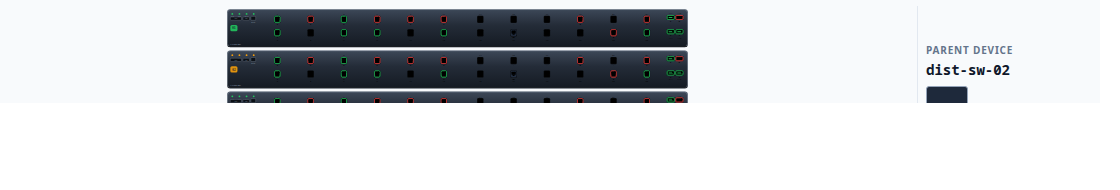
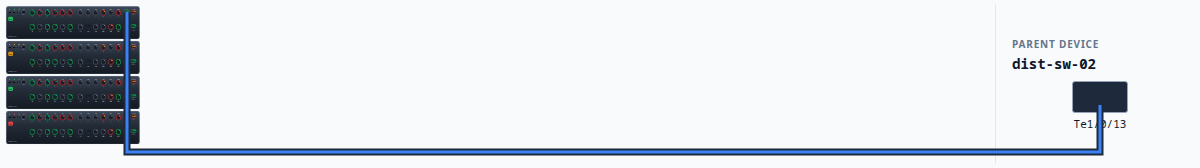
Fit the faceplate chassis inside the panel and draw the parent cable.
Both port rows and the parent port stay inside the existing panel height, stacks of two to four shrink to fit, and the blue line runs from the uplink under the chassis to the parent port.

diff --git a/ui/src/app/device-detail/components/DeviceDetailView.tsx b/ui/src/app/device-detail/components/DeviceDetailView.tsx
@@ -454,11 +454,8 @@ export default function DeviceDetailView() {
               </div>
             ) : null}
             <div ref={greyRef} className="relative flex items-stretch gap-0 overflow-hidden rounded-md bg-gradient-to-b from-secondary to-background p-1" style={{ height: FACEPLATE_HEIGHT }}>
-              <div ref={localPlateRef} className="min-w-0 flex-1 overflow-x-auto">
-                <div
-                  className={device.faceplate.form_factor === 'ceiling-ap' ? 'w-full' : 'flex h-full min-w-full items-center'}
-                  style={device.faceplate.form_factor === 'ceiling-ap' ? undefined : { height: FACEPLATE_HEIGHT }}
-                >
+              <div ref={localPlateRef} className="flex min-w-0 flex-1 items-start overflow-x-auto">
+                <div className={device.faceplate.form_factor === 'ceiling-ap' ? 'w-full' : 'min-w-full'}>
                   <Faceplate
                     device={device.faceplate}
                     selectedPortId={selected?.id ?? null}
@@ -470,11 +467,11 @@ export default function DeviceDetailView() {
                 </div>
               </div>
               <div className="mx-2 w-px shrink-0 bg-border" aria-hidden="true" />
-              <aside data-testid="parent-device" className="flex w-44 shrink-0 flex-col justify-center px-2">
+              <aside data-testid="parent-device" className="flex w-44 shrink-0 flex-col justify-center overflow-visible px-2 py-1">
                 <p className="text-[10px] font-semibold uppercase tracking-wide text-muted-foreground">Parent Device</p>
                 {parentLink ? (
                   <>
-                    <Link href={devicePath(parentLink.id, parentLink.formFactor || 'generic')} className="mt-1 truncate font-mono-data text-sm font-semibold text-foreground hover:text-primary hover:underline" title={parentLink.hostname}>
+                    <Link href={devicePath(parentLink.id, parentLink.formFactor || 'generic')} className="mt-1 break-all font-mono-data text-sm font-semibold leading-tight text-foreground hover:text-primary hover:underline" title={parentLink.hostname}>
                       {parentLink.hostname}
                     </Link>
                     <div ref={parentPortRef} data-relation-id={parentLink.id} className="mt-2">
@@ -485,11 +482,6 @@ export default function DeviceDetailView() {
                   <p className="mt-1 text-sm text-muted-foreground">No parent detected</p>
                 )}
               </aside>
-              {parentLink && !cable ? (
-                <svg className="pointer-events-none absolute inset-0" viewBox="0 0 100 100" preserveAspectRatio="none" aria-hidden="true">
-                  <path d="M 58 72 V 96 H 86 V 58" fill="none" stroke="#3b82f6" strokeWidth="1.6" vectorEffect="non-scaling-stroke" />
-                </svg>
-              ) : null}
               {cable ? <UplinkCable localRef={localPlateRef} greyRef={greyRef} remote={cable.plate} localPortName={cable.localPort} remotePortName={cable.remotePort} /> : null}
             </div>
             {device.faceplate.form_factor === 'ceiling-ap' ? <ApRadioBoards device={device} /> : null}
@@ -988,13 +980,15 @@ function cablePath(points: { x: number; y: number }[]): string {
 }
 
 function outsideCable(port: DOMRect, chassis: DOMRect, remotePort: DOMRect | null, remoteBox: DOMRect, grey: DOMRect): string {
-  const x = port.left + port.width / 2;
-  const y = port.top + port.height / 2;
-  const hug = 2;
-  const laneY = Math.min(grey.bottom - hug, chassis.bottom + hug);
-  const endX = remotePort ? remotePort.left + remotePort.width / 2 : remoteBox.left + remoteBox.width / 2;
-  const rawEndY = remotePort ? remotePort.top + remotePort.height / 2 : remoteBox.top + remoteBox.height / 2;
-  const endY = Math.max(grey.top + hug, Math.min(grey.bottom - hug, rawEndY));
+  const localX = (rect: DOMRect) => rect.left - grey.left + rect.width / 2;
+  const localY = (rect: DOMRect) => rect.top - grey.top + rect.height / 2;
+  const x = localX(port);
+  const y = localY(port);
+  const hug = 6;
+  const laneY = Math.min(grey.height - hug, chassis.bottom - grey.top + hug);
+  const endX = remotePort ? localX(remotePort) : remoteBox.left - grey.left + remoteBox.width / 2;
+  const rawEndY = remotePort ? localY(remotePort) : remoteBox.top - grey.top + remoteBox.height / 2;
+  const endY = Math.max(hug, Math.min(grey.height - hug, rawEndY));
   return cablePath([
     { x, y },
     { x, y: laneY },
@@ -1025,15 +1019,22 @@ function UplinkCable({
     const measure = () => {
       const localPort = findPort(local, localPortName);
       const remotePort = findPort(remote, remotePortName);
-      if (!localPort) {
+      const greyBox = grey.getBoundingClientRect();
+      if (!localPort || greyBox.width < 2 || greyBox.height < 2) {
+        setPath('');
+        return;
+      }
+      const portBox = localPort.getBoundingClientRect();
+      if (portBox.width < 1 && portBox.height < 1) {
         setPath('');
         return;
       }
       const localBox = local.getBoundingClientRect();
-      const metal = local.querySelector('[data-chassis]');
+      const metals = local.querySelectorAll('[data-chassis]');
+      const metal = metals.length ? metals[metals.length - 1] : null;
       const remoteBox = remote.getBoundingClientRect();
-      setSize({ w: window.innerWidth, h: window.innerHeight });
-      setPath(outsideCable(localPort.getBoundingClientRect(), metal ? metal.getBoundingClientRect() : localBox, remotePort ? remotePort.getBoundingClientRect() : null, remoteBox, grey.getBoundingClientRect()));
+      setSize({ w: greyBox.width, h: greyBox.height });
+      setPath(outsideCable(portBox, metal ? metal.getBoundingClientRect() : localBox, remotePort ? remotePort.getBoundingClientRect() : null, remoteBox, greyBox));
     };
     measure();
     if (typeof ResizeObserver === 'undefined') return undefined;
@@ -1049,27 +1050,28 @@ function UplinkCable({
       window.removeEventListener('resize', measure);
     };
   }, [localRef, greyRef, remote, localPortName, remotePortName]);
-  if (!path || size.w <= 0 || typeof document === 'undefined') return null;
-  return createPortal(
-    <svg width={size.w} height={size.h} viewBox={`0 0 ${size.w} ${size.h}`} style={{ position: 'fixed', left: 0, top: 0, zIndex: 80, pointerEvents: 'none' }} aria-hidden="true">
+  if (!path || size.w <= 0) return null;
+  return (
+    <svg data-testid="uplink-cable" width={size.w} height={size.h} viewBox={`0 0 ${size.w} ${size.h}`} style={{ position: 'absolute', left: 0, top: 0, zIndex: 5, pointerEvents: 'none' }} aria-hidden="true">
       <path d={path} fill="none" stroke="#1e293b" strokeWidth={7} strokeLinejoin="miter" strokeLinecap="butt" />
       <path d={path} fill="none" stroke="#3b82f6" strokeWidth={3} strokeLinejoin="miter" strokeLinecap="butt" />
-    </svg>,
-    document.body,
+    </svg>
   );
 }
 
 function ParentPortPicture({ name }: { name: string }) {
   const fiber = /te|hu|fo|twe|sfp|uplink/i.test(name);
   return (
-    <div data-port-name={name} data-testid="parent-port" className="flex flex-col items-center gap-1">
+    <div data-port-name={name} data-testid="parent-port" className="flex w-full flex-col items-center gap-1">
       <div
         className={fiber
-          ? 'h-6 w-10 rounded-[3px] border border-slate-400 bg-slate-800 shadow-sm'
-          : 'h-8 w-7 rounded-[3px] border-2 border-slate-500 bg-slate-900 shadow-sm'}
+          ? 'h-8 w-14 rounded-[3px] border border-slate-400 bg-slate-800 shadow-sm'
+          : 'h-10 w-8 rounded-[3px] border-2 border-slate-400 bg-slate-900 shadow-sm'}
         aria-hidden="true"
-      />
-      <span className="max-w-[9rem] truncate font-mono-data text-[10px] text-muted-foreground" title={name}>{name}</span>
+      >
+        <div className={fiber ? 'mx-auto mt-1.5 h-3 w-8 rounded-sm bg-slate-500' : 'mx-auto mt-1 h-4 w-5 rounded-sm bg-slate-600'} />
+      </div>
+      <span className="max-w-full text-center font-mono-data text-[11px] leading-tight text-foreground" title={name}>{name}</span>
     </div>
   );
 }

diff --git a/ui/src/components/faceplate/Faceplate.shots.test.tsx b/ui/src/components/faceplate/Faceplate.shots.test.tsx
@@ -34,31 +34,76 @@ function stack(count: number): FaceplateDevice {
 
 function frame(device: FaceplateDevice, parent: string | null) {
   return (
-    <div style={{ position: 'relative', display: 'flex', alignItems: 'stretch', width: 1100, height: 168, background: '#f8fafc', boxSizing: 'border-box', padding: 6 }}>
-      <div style={{ flex: 1, minWidth: 0, height: '100%' }}>
+    <div
+      data-faceplate-panel=""
+      data-uplink={parent ? 'Te1/1/1' : ''}
+      data-parent-port={parent ? 'Te1/0/13' : ''}
+      style={{ position: 'relative', display: 'flex', alignItems: 'stretch', width: 1200, height: 168, background: '#f8fafc', boxSizing: 'border-box', padding: 4, overflow: 'hidden' }}
+    >
+      <div style={{ flex: 1, minWidth: 0, display: 'flex', alignItems: 'flex-start' }}>
         <Faceplate device={device} caption={false} health={parent ? 'healthy' : 'unknown'} chassisLabel={device.form_factor === 'access-switch-48' ? 'C9300-48P' : 'C9300-24P'} />
       </div>
       <div style={{ width: 1, background: '#e2e8f0', margin: '0 8px' }} />
-      <aside style={{ width: 168, display: 'flex', flexDirection: 'column', justifyContent: 'center' }}>
+      <aside style={{ width: 176, display: 'flex', flexDirection: 'column', justifyContent: 'center', padding: '4px 8px' }}>
         <div style={{ font: '600 10px/1.2 ui-sans-serif, system-ui', letterSpacing: '0.08em', color: '#64748b', textTransform: 'uppercase' }}>Parent Device</div>
         {parent ? (
           <>
             <div style={{ marginTop: 6, font: '600 14px/1.2 ui-monospace, monospace', color: '#0f172a' }}>{parent}</div>
-            <div style={{ marginTop: 8, width: 40, height: 22, border: '1px solid #94a3b8', borderRadius: 3, background: '#1e293b' }} />
-            <div style={{ marginTop: 4, font: '500 10px/1 ui-monospace, monospace', color: '#64748b' }}>Te1/0/13</div>
+            <div data-port-name="Te1/0/13" style={{ marginTop: 8, display: 'flex', flexDirection: 'column', alignItems: 'center' }}>
+              <div style={{ width: 56, height: 32, border: '1px solid #94a3b8', borderRadius: 3, background: '#1e293b', boxSizing: 'border-box' }} />
+              <div style={{ marginTop: 4, font: '500 11px/1.2 ui-monospace, monospace', color: '#0f172a' }}>Te1/0/13</div>
+            </div>
           </>
         ) : (
           <div style={{ marginTop: 6, font: '500 14px/1.3 ui-sans-serif, system-ui', color: '#64748b' }}>No parent detected</div>
         )}
       </aside>
-      {parent ? (
-        <svg style={{ position: 'absolute', inset: 0, pointerEvents: 'none' }} viewBox="0 0 100 100" preserveAspectRatio="none" aria-hidden="true">
-          <path d="M 62 74 V 96 H 88 V 62" fill="none" stroke="#3b82f6" strokeWidth="1.6" />
-        </svg>
-      ) : null}
     </div>
   );
 }
+
+const SHOT_CSS = `:root{--navy:#0b1220;--metal-1:#2a3140;--metal-2:#1b212d;--metal-3:#12161f;--metal-hi:#4a5468;--down:#d5deea;--font-mono:ui-monospace,monospace;--success:#17a672;--warning:#e8a317;--destructive:#d93a46;--cyan:#36cfff}`;
+
+const CABLE_SCRIPT = `<script>
+(function () {
+  var panel = document.querySelector('[data-faceplate-panel]');
+  if (!panel) return;
+  var uplink = panel.getAttribute('data-uplink');
+  var parentPort = panel.getAttribute('data-parent-port');
+  if (!uplink || !parentPort) return;
+  var local = panel.querySelector('[data-port-name="' + uplink + '"]');
+  var remote = panel.querySelector('[data-port-name="' + parentPort + '"]');
+  var metals = panel.querySelectorAll('[data-chassis]');
+  if (!local || !remote || !metals.length) return;
+  var grey = panel.getBoundingClientRect();
+  var port = local.getBoundingClientRect();
+  var far = remote.getBoundingClientRect();
+  var chassisBottom = 0;
+  for (var i = 0; i < metals.length; i++) chassisBottom = Math.max(chassisBottom, metals[i].getBoundingClientRect().bottom);
+  var x = port.left - grey.left + port.width / 2;
+  var y = port.top - grey.top + port.height / 2;
+  var lane = Math.min(grey.height - 8, chassisBottom - grey.top + 8);
+  var endX = far.left - grey.left + far.width / 2;
+  var endY = far.top - grey.top + far.height / 2;
+  var svg = document.createElementNS('http://www.w3.org/2000/svg', 'svg');
+  svg.setAttribute('viewBox', '0 0 ' + grey.width + ' ' + grey.height);
+  svg.setAttribute('style', 'position:absolute;left:0;top:0;width:100%;height:100%;pointer-events:none');
+  var sleeve = document.createElementNS('http://www.w3.org/2000/svg', 'path');
+  var core = document.createElementNS('http://www.w3.org/2000/svg', 'path');
+  var d = 'M ' + Math.round(x) + ' ' + Math.round(y) + ' V ' + Math.round(lane) + ' H ' + Math.round(endX) + ' V ' + Math.round(endY);
+  sleeve.setAttribute('d', d);
+  sleeve.setAttribute('fill', 'none');
+  sleeve.setAttribute('stroke', '#1e293b');
+  sleeve.setAttribute('stroke-width', '7');
+  core.setAttribute('d', d);
+  core.setAttribute('fill', 'none');
+  core.setAttribute('stroke', '#3b82f6');
+  core.setAttribute('stroke-width', '3');
+  svg.appendChild(sleeve);
+  svg.appendChild(core);
+  panel.appendChild(svg);
+})();
+</script>`;
 
 describe('faceplate screenshots', () => {
   it('writes the panel frames when IE_FACEPLATE_SHOTS is set', () => {
@@ -74,7 +119,7 @@ describe('faceplate screenshots', () => {
     fs.mkdirSync(dir, { recursive: true });
     for (const [name, device, parent] of cases) {
       const { container, unmount } = render(frame(device, parent));
-      const html = `<!doctype html><html><head><meta charset="utf-8"></head><body style="margin:0">${container.innerHTML}</body></html>`;
+      const html = `<!doctype html><html><head><meta charset="utf-8"><style>${SHOT_CSS}</style></head><body style="margin:0;background:#f8fafc">${container.innerHTML}${CABLE_SCRIPT}</body></html>`;
       fs.writeFileSync(path.join(dir, `${name}.html`), html);
       unmount();
     }

diff --git a/ui/src/components/faceplate/layouts/SwitchLayout.tsx b/ui/src/components/faceplate/layouts/SwitchLayout.tsx
@@ -4,7 +4,6 @@ import React from 'react';
 import type { PortInfo } from '@/lib/types';
 import ChassisBody from '../Chassis';
 import PortGlyph from '../Port';
-import { lockedChassis } from '../size';
 
 export interface LayoutCommon {
   uid: string;
@@ -22,10 +21,17 @@ interface SwitchProps extends LayoutCommon {
   stackPorts?: boolean;
   modelLabel?: string;
   ledHealth?: string;
+  canvasWidth?: number;
 }
 
 // Cable ports sit in two rows, odd above even, the way a switch face is built.
-export const SW_H = 96;
+// Height includes the port numbers above the top row and below the bottom row.
+export const SW_H = 124;
+const START_X = 86;
+const PITCH = 28;
+const GROUP_GAP = 10;
+const TOP_Y = 16;
+const BOTTOM_Y = 70;
 
 const CABLE_TYPES = new Set(['RJ45', 'SFP', 'SFP+', 'QSFP', 'MGMT']);
 
@@ -91,8 +97,20 @@ export function cablePorts(ports: PortInfo[]): PortInfo[] {
 
 export function switchWidth(portCount: number) {
   const cols = Math.max(1, Math.ceil(portCount / 2));
-  const groups = Math.ceil(cols / 4);
-  return 150 + cols * 24 + Math.max(0, groups - 1) * 6 + 48;
+  const groups = Math.ceil(cols / 6);
+  return START_X + cols * PITCH + Math.max(0, groups - 1) * GROUP_GAP + 48;
+}
+
+export function switchCanvas(ports: PortInfo[]) {
+  const laid = cablePorts(ports);
+  const copper = laid.filter((port) => !isFiber(port));
+  const fiber = laid.filter(isFiber);
+  const cols = Math.max(1, Math.ceil(copper.length / 2));
+  const groups = Math.ceil(cols / 6);
+  const fiberCols = Math.max(1, Math.ceil(fiber.length / 2));
+  const fiberW = fiber.length ? fiberCols * 26 + 12 : 8;
+  const width = START_X + cols * PITCH + Math.max(0, groups - 1) * GROUP_GAP + fiberW + 8;
+  return { width, height: SW_H, cols, groups, fiberCols, fiberW, copper, fiber };
 }
 
 function isFiber(port: PortInfo): boolean {
@@ -106,21 +124,14 @@ function ledFill(health: string | undefined): string {
   return '#94a3b8';
 }
 
-export default function SwitchLayout({ ports, uid, selectedId, onHover, onSelect, originX = 0, originY = 0, memberNumber, memberHealthColor, modelLabel, ledHealth }: SwitchProps) {
-  const laid = cablePorts(ports);
-  const copper = laid.filter((port) => !isFiber(port));
-  const fiber = laid.filter(isFiber);
-  const W = lockedChassis().innerW;
-  const startX = 86;
-  const fiberCols = Math.max(1, Math.ceil(fiber.length / 2));
-  const fiberW = fiber.length ? fiberCols * 22 + 16 : 8;
-  const cols = Math.max(1, Math.ceil(copper.length / 2));
-  const groups = Math.ceil(cols / 6);
-  const groupGap = 8;
-  const usable = Math.max(22, W - startX - fiberW - groupGap * Math.max(0, groups - 1));
+export default function SwitchLayout({ ports, uid, selectedId, onHover, onSelect, originX = 0, originY = 0, memberNumber, memberHealthColor, modelLabel, ledHealth, canvasWidth }: SwitchProps) {
+  const canvas = switchCanvas(ports);
+  const { copper, fiber, cols, fiberCols, fiberW } = canvas;
+  const W = canvasWidth && canvasWidth > canvas.width ? canvasWidth : canvas.width;
+  const usable = Math.max(PITCH, W - START_X - fiberW - GROUP_GAP * Math.max(0, canvas.groups - 1));
   const pitch = usable / cols;
-  const glyph = Math.min(16, Math.max(9, pitch - 3));
-  const colX = (c: number) => startX + c * pitch + Math.floor(c / 6) * groupGap + Math.max(0, (pitch - glyph) / 2);
+  const glyph = Math.min(18, Math.max(11, pitch - 8));
+  const colX = (c: number) => START_X + c * pitch + Math.floor(c / 6) * GROUP_GAP + Math.max(0, (pitch - glyph) / 2);
   const led = ledFill(ledHealth);
   const accent = memberHealthColor || led;
 
@@ -159,10 +170,10 @@ export default function SwitchLayout({ ports, uid, selectedId, onHover, onSelect
           return (
             <React.Fragment key={`${uid}-col-${c + 1}`}>
               {top && (
-                <PortGlyph port={top} x={colX(c)} y={18} size={glyph} uid={uid} selected={selectedId === top.id} onHover={onHover} onSelect={onSelect} silk={silkLabel(top.name)} />
+                <PortGlyph port={top} x={colX(c)} y={TOP_Y} size={glyph} uid={uid} selected={selectedId === top.id} onHover={onHover} onSelect={onSelect} silk={silkLabel(top.name)} />
               )}
               {bottom && (
-                <PortGlyph port={bottom} x={colX(c)} y={52} size={glyph} uid={uid} selected={selectedId === bottom.id} onHover={onHover} onSelect={onSelect} silk={silkLabel(bottom.name)} silkBelow />
+                <PortGlyph port={bottom} x={colX(c)} y={BOTTOM_Y} size={glyph} uid={uid} selected={selectedId === bottom.id} onHover={onHover} onSelect={onSelect} silk={silkLabel(bottom.name)} silkBelow />
               )}
             </React.Fragment>
           );
@@ -171,8 +182,8 @@ export default function SwitchLayout({ ports, uid, selectedId, onHover, onSelect
         {fiber.map((port, index) => {
           const column = index % fiberCols;
           const row = Math.floor(index / fiberCols);
-          const x = W - fiberW + 8 + column * 22;
-          const y = row === 0 ? 16 : 52;
+          const x = W - fiberW + 6 + column * 26;
+          const y = row === 0 ? TOP_Y : BOTTOM_Y;
           return (
             <PortGlyph
               key={port.id}

diff --git a/ui/src/components/faceplate/Faceplate.tsx b/ui/src/components/faceplate/Faceplate.tsx
@@ -6,7 +6,7 @@ import FaceplateDefs from './FaceplateDefs';
 import PortTooltip from './PortTooltip';
 import RadioTooltip from './RadioTooltip';
 import FortiGateLayout from './layouts/FortiGateLayout';
-import SwitchLayout, { SW_H } from './layouts/SwitchLayout';
+import SwitchLayout, { SW_H, switchCanvas } from './layouts/SwitchLayout';
 import { CHASSIS_WIDTH, FACEPLATE_HEIGHT, lockedChassis } from './size';
 
 export { FACEPLATE_HEIGHT };
@@ -119,9 +119,10 @@ export default function Faceplate({ device, selectedPortId = null, onSelectPort,
       case 'access-switch-24': case 'access-switch-48': case 'generic':
       case 'firewall': case 'branch-router': case 'wireless-controller': case 'modular-chassis': {
         const ports = device.modules?.length ? device.modules.flatMap((module) => module.ports) : (device.ports ?? []);
+        const canvas = switchCanvas(ports);
         return {
-          vbW: frame.vbW,
-          vbH: frame.vbH,
+          vbW: canvas.width + pad * 2,
+          vbH: canvas.height + pad * 2,
           rowCount: 1,
           body: (
             <SwitchLayout
@@ -139,8 +140,9 @@ export default function Faceplate({ device, selectedPortId = null, onSelectPort,
         const members = device.members ?? [];
         const rows = Math.max(members.length, 1);
         const gap = 8;
+        const width = Math.max(1, ...members.map((member) => switchCanvas(member.ports).width));
         return {
-          vbW: frame.vbW,
+          vbW: width + pad * 2,
           vbH: pad * 2 + rows * SW_H + Math.max(0, rows - 1) * gap,
           rowCount: rows,
           body: (
@@ -151,6 +153,7 @@ export default function Faceplate({ device, selectedPortId = null, onSelectPort,
                   ports={member.ports}
                   originX={pad}
                   originY={pad + index * (SW_H + gap)}
+                  canvasWidth={width}
                   {...common}
                   memberNumber={member.number}
                   memberHealthColor={memberInk(member.health)}
@@ -186,10 +189,12 @@ export default function Faceplate({ device, selectedPortId = null, onSelectPort,
     );
   }
 
-  const drawnHeight = stackRows > 4 ? Math.round((stackRows / 4) * FACEPLATE_HEIGHT) : FACEPLATE_HEIGHT;
+  // The panel stays 168px. This slot is the metal; the strip below it is the parent cable.
+  const chassisSlot = FACEPLATE_HEIGHT - 26;
+  const drawnHeight = stackRows > 4 ? Math.round((stackRows / 4) * chassisSlot) : chassisSlot;
 
   return (
-    <div ref={wrapRef} className={`relative w-full min-w-0 ${className}`} style={stackRows > 4 ? { height: FACEPLATE_HEIGHT, overflowY: 'auto' } : undefined}>
+    <div ref={wrapRef} className={`relative w-full min-w-0 ${className}`} style={stackRows > 4 ? { height: chassisSlot, overflowY: 'auto' } : undefined}>
       <div className="w-full min-w-0">
         <svg
           viewBox={`0 0 ${vbW} ${vbH}`}
